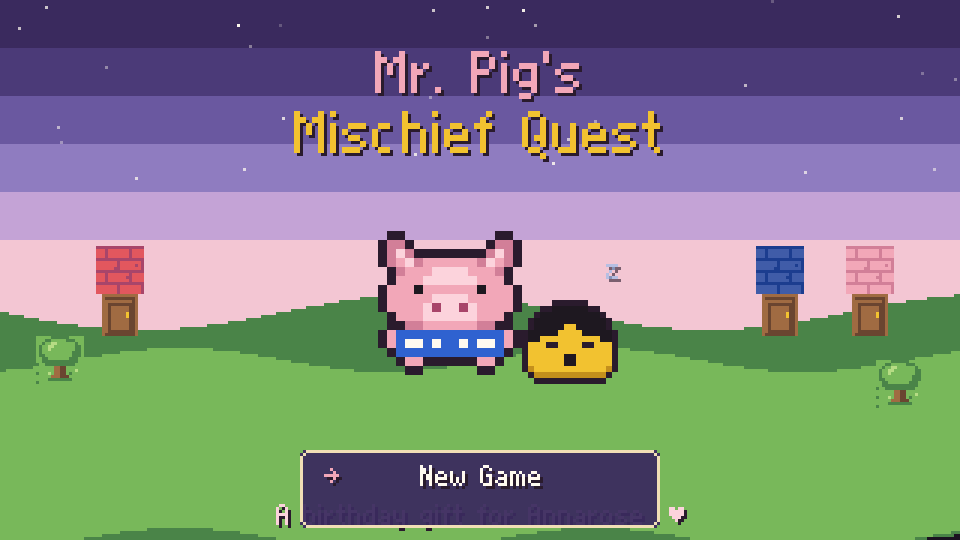
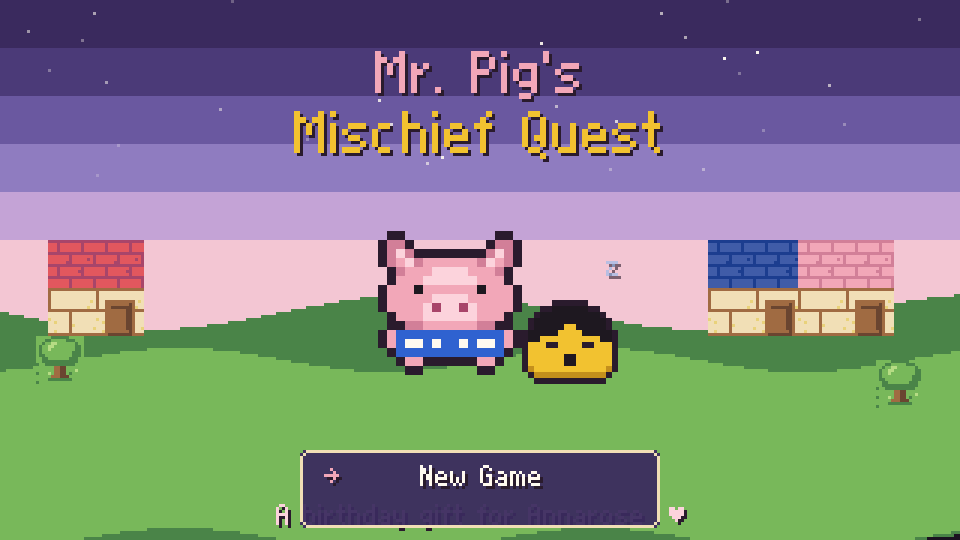
Polish pass: confetti, finale staging, castle layout, crystal mustache, README, reachability test

Changed region(s): [[0.7188, 0.4444, 0.9375, 0.6222], [0.0312, 0.4444, 0.1562, 0.6222], [0.625, 0.4741, 0.6562, 0.5333]]

diff --git a/tests/smoke.spec.js b/tests/smoke.spec.js
@@ -4,6 +4,7 @@ import fs from 'node:fs';
 import { CAVE_ROOMS } from '../src/levels/caves.js';
 import { allCheeseIds } from '../src/levels/cheese.js';
 import { verify } from '../src/levels/sokoban.js';
+import { HUB_MAP, FARM_MAP, CASTLE_ROOMS, LEGEND, cheeseSpots } from '../src/levels/maps.js';
 
 const FINAL = 'Annarose I love you so much. Happy Birthday.';
 fs.mkdirSync('preview/scenes', { recursive: true });
@@ -74,6 +75,31 @@ async function shot(page, name) {
   await page.waitForTimeout(400);
   await page.screenshot({ path: `preview/scenes/${name}.png` });
 }
+
+// Flood fill over walkable tiles: every overworld cheese must be reachable from the entrance.
+function reachable(rows, sx, sy) {
+  const seen = new Set([`${sx},${sy}`]);
+  const q = [[sx, sy]];
+  while (q.length) {
+    const [x, y] = q.shift();
+    for (const [dx, dy] of [[1, 0], [-1, 0], [0, 1], [0, -1]]) {
+      const nx = x + dx, ny = y + dy, ch = rows[ny]?.[nx];
+      if (!ch || seen.has(`${nx},${ny}`)) continue;
+      if (ch !== '*' && ch !== '$' && (LEGEND[ch].solid || LEGEND[ch].prop)) continue;
+      seen.add(`${nx},${ny}`);
+      q.push([nx, ny]);
+    }
+  }
+  return seen;
+}
+
+test('every overworld cheese is reachable', () => {
+  const maps = [['hub', HUB_MAP, 5, 5], ['farm', FARM_MAP, 1, 10], ...Object.entries(CASTLE_ROOMS).map(([k, r]) => [k, r, 9, 5])];
+  for (const [name, rows, sx, sy] of maps) {
+    const seen = reachable(rows, sx, sy);
+    for (const c of cheeseSpots(name, 'x', rows)) expect(seen.has(`${c.x},${c.y}`), `${name} cheese at ${c.x},${c.y}`).toBe(true);
+  }
+});
 
 test('data: 30 cheeses, solvable caves with stored solutions', () => {
   expect(allCheeseIds()).toHaveLength(30);

diff --git a/src/art/sprites.js b/src/art/sprites.js
@@ -790,24 +790,26 @@ const topHat = [
 ];
 const crystal = [
   '................',
-  '................',
-  '................',
-  '................',
   '.......i........',
   '......iwi.......',
-  '......iii....i..',
-  '..i..iiwii..iwi.',
-  '.iwi.iiiii..iii.',
-  '.iii.iiiiv..iiv.',
-  '.iiv.iiiiv.iiiv.',
-  '.iiviiiiivviiivv',
-  '.iiiviiiivviiivv',
-  '..iivviivvviivv.',
+  '......iwi.......',
+  '.....iiwii......',
+  '.....iiiii......',
+  '.....iiiiv...i..',
+  '.i...iiiiv..iwi.',
+  'iwi..iiiiv..iiv.',
+  'iii..iiiiv..iiv.',
+  'iiv.iiiiivv.iiv.',
+  'iivviiiiivviiivv',
+  '.ivvviiiivviivv.',
   '..vvvvvvvvvvvvv.',
+  '................',
   '................',
 ];
 const mustache = [
-  '.xx..xx.',
+  '.x....x.',
+  '........',
+  'xxx..xxx',
   'xxxxxxxx',
   'x..xx..x',
 ];
@@ -1143,7 +1145,7 @@ export const SPRITES = {
   bat_nohat_1: batNoHat[1],
   top_hat: topHat,
   crystal,
-  crystal_mustache: overlay(crystal, mustache, 5, 8),
+  crystal_mustache: overlay(crystal, mustache, 3, 5),
   mustache,
   mushroom,
   blob_0: blob0,

diff --git a/src/scenes/CastleScene.js b/src/scenes/CastleScene.js
@@ -41,7 +41,8 @@ export default class CastleScene extends Overworld {
     this.createWorld({ map: CASTLE_ROOMS[this.roomName], area: 'castle', room: this.roomName, spawn: this.entry, music: 'castle' });
     this.coneGfx = this.add.graphics().setDepth(5);
     this.guards = [];
-    for (const g of GUARDS[this.roomName]) this.addGuard(g);
+    // Once Sir Oinks is beaten the guards stand down.
+    if (!state.done.castle) for (const g of GUARDS[this.roomName]) this.addGuard(g);
     this[`setup_${this.roomName}`]();
     this.arrival(data);
   }

diff --git a/src/scenes/FarmScene.js b/src/scenes/FarmScene.js
@@ -180,7 +180,7 @@ export default class FarmScene extends Overworld {
 
   async onSnort(x, y) {
     const bp = this.bigPig;
-    if (this.bigPigBusy || Math.hypot(bp.x - x, bp.y - 16 - y) > 50) return;
+    if (this.bigPigBusy || Math.hypot(bp.x - x, bp.y - 16 - y) > 60) return;
     this.bigPigBusy = true;
     await this.cutscene(async () => {
       const y0 = bp.y;

diff --git a/README.md b/README.md
@@ -1,0 +1,97 @@
+# Mr. Pig's Mischief Quest 🐷
+
+A ~30-minute cozy pixel-art browser game, made as a birthday gift for Annarose.
+
+Annarose will only cuddle with **the most mischievous pig in the land**. Mr. Pig sets out to prove it's him
+by pranking his rivals, Mr. Big Pig and Sir Oinks A Lot. His sleepy best friend, the Shleepy Stone, tags along.
+No game overs, no failure screens: just mischief.
+
+Built with **Phaser 3** and **Vite** in plain JavaScript. Every sprite, tile, font glyph, sound effect and song
+is generated in code. There are no image, audio or font files.
+
+## Run it
+
+```bash
+npm install
+npm run dev
+```
+
+Then open the URL Vite prints (usually http://localhost:5173).
+
+## Controls
+
+| Key | Action |
+|---|---|
+| **W A S D** | Move |
+| **Space** | Interact / talk / advance dialogue / confirm |
+| **Shift** | Snort! Wakes the Shleepy Stone, startles pigs, distracts guards, poofs nightmares |
+| **R** | Restart the current puzzle room or minigame |
+| **M** | Mute / unmute (remembered) |
+| **Esc** | Pause menu (Resume, Controls, Mute, Quit to Title) + prank checklist |
+
+The game autosaves after every prank, cheese, puzzle and area. The title screen offers **Continue** and **New Game**.
+
+## Build
+
+```bash
+npm run build
+```
+
+This writes a static site to `dist/`, then runs `scripts/check-dist.mjs`, which fails the build if anything from
+`assets/references/` (or any image file at all) ended up in `dist/`. The build uses `base: './'`, so `dist/` works
+from any folder on any static host.
+
+To try the production build locally, run `npm run preview`.
+
+## Deploy to GitHub Pages
+
+1. Run `npm run build`.
+2. Publish the contents of `dist/` to a `gh-pages` branch, for example:
+   ```bash
+   npx gh-pages -d dist
+   ```
+   Alternatively, use a GitHub Actions workflow that runs `npm ci && npm run build` and uploads `dist/` with
+   `actions/upload-pages-artifact` + `actions/deploy-pages`.
+3. In the repo's **Settings → Pages**, choose the `gh-pages` branch (or "GitHub Actions") as the source.
+
+> **Privacy:** the reference photos in `assets/references/` are private. They are git-ignored, never imported
+> by the game, blocked by the dev server, and checked for after every build. Only the generated pixel sprites ship.
+
+## Tests & tools
+
+| Command | What it does |
+|---|---|
+| `npm test` | Playwright end-to-end tests (boot without console errors, Intro to Hub, every area, cave solutions replayed as key presses, all three minigames, the finale's exact final message, save/load, pause/mute). Screenshots go to `preview/scenes/`. |
+| `npm run solve` | BFS solver (models the Stone's 3-push sleep counter and snort wake-ups) that verifies every cave room is solvable and every cheese is reachable, and checks each room's stored solution. `node scripts/solve-caves.mjs --write` regenerates the solutions. |
+| `npm run sprites` | Renders every sprite at 8× to `preview/*.png`, plus contact sheets of all sprites and tiles. |
+
+The first time you run the tests, install the browser with `npx playwright install chromium`.
+
+### Debug mode
+
+Open the game with `?debug=1` (for example http://localhost:5173/?debug=1):
+
+- **1–6** warp to Hub / Farm / Castle / Caves / Dream / Finale
+- **G** grants 100 Mischief Points, **C** grants all 30 cheeses
+- **F** completes the current area or minigame (using the same completion code as playing it)
+- `window.__game` and `window.__state` are exposed for tests
+
+Debug mode is off, and invisible, unless that query parameter is present.
+
+## Project layout
+
+```
+assets/references/    private reference photos (never shipped, git-ignored)
+docs/characters.md    visual notes on each character, written from the references
+src/main.js           Phaser config + scene list, integer scaling
+src/state.js          game state, ranks, pranks, save/load
+src/art/              palette, pixel-grid sprites, tiles, texture builder
+src/audio/            Web Audio SFX and the chiptune step sequencer + songs
+src/ui/               pixel font, dialogue box, HUD, toasts, controls card
+src/levels/           overworld maps, cave rooms, Sokoban rules + solver, cheese registry
+src/scenes/           Boot, Title, Intro, Hub, Farm, EatingContest, Castle, Joust, Caves, Dream, Finale, Credits, Pause
+scripts/              sprite preview renderer, cave solver, dist/ privacy check
+tests/                Playwright smoke tests
+```
+
+Happy birthday, Annarose. ♥
